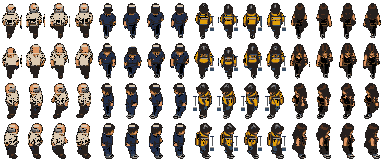
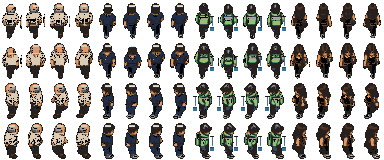
art(gta-melito): refine reference-derived NPCs and fix lavavetri work colors

diff --git a/games/gta-melito/PIXEL_ART_MODUS.md b/games/gta-melito/PIXEL_ART_MODUS.md
@@ -126,6 +126,17 @@ Il primo sheet è la **fonte di verità artistica** per silhouette, proporzioni 
 
 Ritagli singoli: [friggitore](./assets/people/npc-friggitore-4dir-4frames.png), [vigile](./assets/people/npc-vigile-4dir-4frames.png), [lavavetri](./assets/people/npc-lavavetri-4dir-4frames.png), [contrabbandiere](./assets/people/npc-contrabbandiere-4dir-4frames.png). Ogni ritaglio è `96×160` con 4 frame orizzontali e quattro direzioni verticali; l'atlante principale è trasparente, i frame hanno il medesimo pivot ai piedi e non perdono mani o oggetti al bordo. **Sono asset grafici predisposti, non NPC già attivi nel mondo**: un'implementazione successiva dovrà collegare loader, renderer, distribuzione sul territorio, animazione e routine contestuali senza modificare le collisioni per adattarle al disegno. Non rimuovere il vecchio friggitore già integrato prima della sostituzione verificata.
 
+
+### Nuova tavola quattro mestieri ricostruita dal primo sheet — 20 ottobre 2026
+
+[**Visualizza lo spritesheet dei quattro mestieri, derivato dal primo atlante ufficiale**](./assets/people/npc-mestieri-prima-reference-384x160.png).
+
+Questo è il rifacimento delle **quattro figure nello stile della reference madre**, non una nuova generazione libera:
+- **Celle**: 24×40 px, 16 colonne × 4 righe, 384×160 totale; direzioni su/giù/sinistra/destra, quattro fasi di camminata per direzione.
+- **Personaggi per gruppo di colonne**: 0–3 friggitore con camice bianco (deriva dalla terza figura originale); 4–7 vigile urbano blu (dalla prima); 8–11 lavavetri con giacca verde e secchio (dalla quarta); 12–15 contrabbandiere con borsello a tracolla sotto l'ascella (dalla seconda).
+- **Metodo**: sono preservati i pixel sorgente che costituiscono le pose, con ri-colorazione selettiva degli abiti e piccoli dettagli disegnati sulla griglia nativa; la **reference primaria è** [pedoni-4x4frames-24x40-rgba.png](./assets/people/pedoni-4x4frames-24x40-rgba.png). Non confondere il vecchio foglio mestieri discordante con questo nuovo.
+- **Stato**: **bozza su PR dedicata, in attesa di conferma estetica dell'utente**; non sostituire vecchi NPC o attivare routine prima del collaudo. La PR #33 era basata sul friggitore storico e viene superata dal nuovo lavoro.
+
 ## 4. VEICOLI — automobili, moto, Ape, furgoni
 
 ### Standard predefinito sheet veicoli: 16 sprite, 8 per modello

diff --git a/games/gta-melito/WORK_LOG.md b/games/gta-melito/WORK_LOG.md
@@ -389,3 +389,10 @@ laude (account `ilconsulentelogistico-hue`) — Q02 collaudata e chiusa
 - Documentazione aggiornata in `PIXEL_ART_MODUS.md` e richiamo esplicito in `AGENTS.md` per gli altri agenti. Seconda tavola pedoni solo secondaria; vecchio friggitore e mestieri/PR #33 non approvati come modello artistico.
 - Specificati formato 4 persone × 4 direzioni × 4 frame (384×160, cella 24×40), confronto visivo affiancato e blocco della generazione se il file originale non è accessibile.
 - Intervento **solo di documentazione**: PNG/renderer/routine, deploy, CI e giocabilità invariati; test tecnici non eseguiti perché non sono stati modificati.
+
+### 2026-10-20 — Refactoring visivo dei quattro NPC sulla reference originale dei pedoni
+- **Prima di disegnare:** aperto visivamente il primo sheet esistente `pedoni-4x4frames-24x40-rgba.png` in GitHub, formato 384×160, 4 personaggi, 4 direzioni × 4 pose.
+- **Lavoro:** derivati direttamente tutti i 64 frame dalla tavola originale, rimappando i quattro archetipi nell'ordine friggitore (dal personaggio 3), vigile (dal personaggio 1), lavavetri (dal personaggio 4), contrabbandiere (dal personaggio 2); abiti nuovi e dettagli accessori limitati alla cella nativa 24×40 senza cambiare le proporzioni.
+- **Asset:** nuovo PNG indicizzato con alpha autentico `assets/people/npc-mestieri-prima-reference-384x160.png`, 384×160; 4 mini-sheet individuali `npc-prima-reference-{friggitore,vigile,lavavetri,contrabbandiere}-96x160.png`. I due fogli mestieri precedenti sono ancora disponibili per confronto ma non sono riferimento approvato.
+- **Controlli:** controllati matrice dei frame, paletta originale ampliata con sfumature verdi del lavavetri, trasparenza effettiva e visualizzazione a 3×; codec PNG verificato per celle native e integrazione futura. Non eseguiti screenshot nel gioco e test Android; nessuna sostituzione attiva dei personaggi.
+- **Stato:** branch `art/npc-mestieri-prima-reference` e PR in bozza per giudizio estetico dell'utente, senza modifica di `main` e senza toccare la logica NPC. Il vecchio prototipo PR #33 derivava dal friggitore storico e viene superato dal nuovo metodo.

diff --git a/games/gta-melito/VISUAL_PROGRESS.md b/games/gta-melito/VISUAL_PROGRESS.md
@@ -543,3 +543,6 @@ Nuovi sprite top-down 2.5D: friggitore in camice bianco, vigile urbano, lavavetr
 
 ### 2026-10-20 — Strada viva: Ape, food truck e mestieri NPC (branch di sviluppo)
 Aggiunto il renderer per l'atlante originale `npc-mestieri-4chars-4dir-4frames-24x40.png` (friggitore, vigile, lavavetri, contrabbandiere), collegato agli attori reali della simulazione; gli asset `ape-food-16-rgba.png` già presenti alimentano Ape AI senza tendalino aperto e food truck in sosta. Nuovi ancoraggi commerciali deterministici sulla cartografia, con controlli geometrici; non sono esercizi commerciali o semafori verificati sul campo. Il numero di passanti comuni è stato ridotto mentre aumenta la varietà delle mansioni. Aggiornato `index.html` a `game.mjs?v=154`, import di `city-art.mjs?v=129` e `roads.mjs?v=146`. Non sono state prodotte fotografie/screenshot prima-dopo né controlli manuali di rendering browser/telefono in questa sessione: per completare il QA occorre aprire il gioco e confrontare i cinque siti previsti sul percorso. 
+
+### 2026-10-20 — Quattro NPC nuovamente disegnati sul *primo* atlante dei pedoni
+Nuova tavola in `assets/people/npc-mestieri-prima-reference-384x160.png` (384×160, 64 pose: quattro mestieri × quattro direzioni × quattro frame). Le **pose e le corporature provengono effettivamente** da `pedoni-4x4frames-24x40-rgba.png`: la figura chiara diventa il friggitore, la figura blu il vigile, l'impermeabile giallo il lavavetri verde con secchio/tergivetro, e la figura marrone il contrabbandiere con marsupio sotto ascella. I pixel stilistici non sono reinventati su un corpo differente. Revisionato lo schema cromatico del lavavetri per renderlo verde senza alterare lo shading originale. Stato: proposta visiva per approvazione, nessuna installazione in game, vecchi asset invariati.
